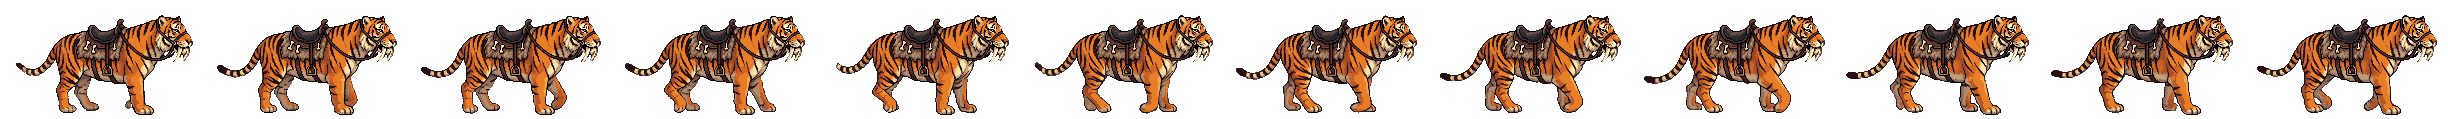
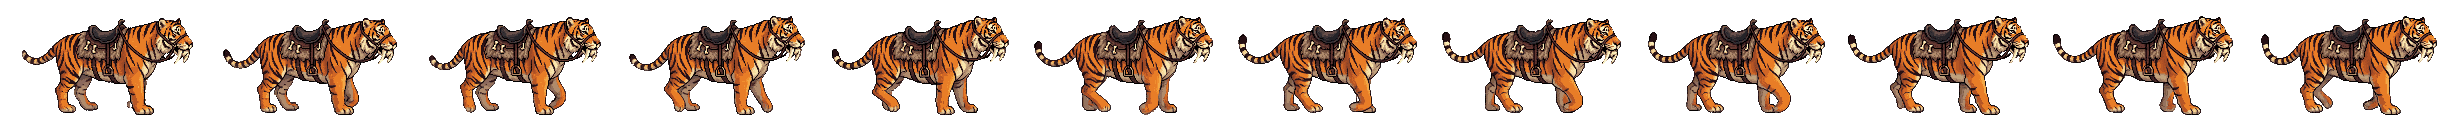
Mounts: the tiger's head moving with its steps, and its card from its walk
The author: "jeszcze trochę niech mocniej się rusza ta głowa tygrysa" and
"pamiętaj też, by zmienić wygląd w karcie na najnowszy, jeśli jest nowy".

- Of four drawings of the poses with the head following the shoulders
  (0919), 263498447: its head's top moves 2 px with the steps (the prowl's
  0-1 px), its twelve frames change by the most even steps (0.60) and its
  tail is whole in every frame.
- tools/mount-trots.py: "picture" makes a frame of the walk the mount's
  picture on its card (the Stajnia, the Sklep Systemu), cut to the mount;
  the tiger's card now shows its first frame, with the long tail it has in
  the game, instead of the older drawing with a short, curled one.

Claude-Session: https://claude.ai/code/session_01EFZUMqpHps3KDRogHBzjf3

Changed region(s): [[0.0, 0.1261, 1.0, 0.958], [0.4346, 0.8067, 0.4967, 0.958]]

diff --git a/tools/mount-trots.py b/tools/mount-trots.py
@@ -31,7 +31,10 @@ A "trot" in art/mounts.json:
            if given, where it meets the clear above ("seam": the outline
            on the gap's left, inside the mount now, takes the coat beside
            it); a deep gap fills from the bottom up. The Stajnia's picture
-           takes the same patch.
+           takes the same patch;
+  "picture": the frame of the loop (counted from 1) that is the mount's
+             picture on its card in the Stajnia and the Sklep Systemu, cut
+             to the mount, so the card shows the mount as it walks.
 
     python3 -I tools/mount-trots.py [DRAFTS_DIR]
 
@@ -186,6 +189,13 @@ def main():
             start = Image.open(os.path.join(ROOT, mount['start'])).convert('RGBA')
             picture = patch(start.copy(), trot['patch'], (0, 0)).crop(start.getbbox())
             picture.save(os.path.join(ROOT, 'src', 'client', 'art', 'mounts', f'{mount_id}.png'), optimize=True)
+        if trot.get('picture'):
+            # The picture on the mount's card (the Stajnia, the Sklep Systemu)
+            # is a frame of its walk ("picture", counted from 1), cut to the
+            # mount, so the card shows it as it walks in the game (the
+            # author: "zmienić wygląd w karcie na najnowszy, jeśli jest nowy").
+            shown = frames[trot['picture'] - 1]
+            shown.crop(shown.getbbox()).save(os.path.join(ROOT, 'src', 'client', 'art', 'mounts', f'{mount_id}.png'), optimize=True)
         sheet = Image.new('RGBA', (width * len(frames), height), (0, 0, 0, 0))
         for index, frame in enumerate(frames):
             sheet.alpha_composite(frame, (index * width, 0))
